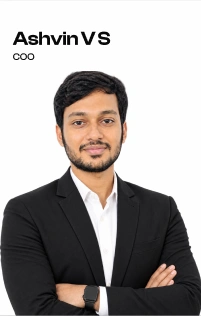
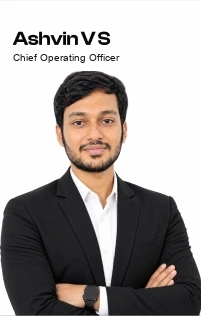
role change

Changed region(s): [[0.0597, 0.1709, 0.597, 0.1994]]

diff --git a/src/data/teamMembers.js b/src/data/teamMembers.js
@@ -35,7 +35,7 @@ export const TEAM_MEMBERS = [
     id: 3,
     slug: 'ashvin',
     name: 'Ashvin V S',
-    role: 'COO',
+    role: 'Chief Operating Officer',
     department: 'Operations & Execution',
     badgeId: 'GL/EE/26/03',
     bloodGroup: 'B+',
@@ -67,7 +67,7 @@ export const TEAM_MEMBERS = [
     id: 5,
     slug: 'reshma',
     name: 'Reshma J',
-    role: 'Software Developer',
+    role: 'Senior Developer',
     department: 'Software Engineering',
     badgeId: 'GL/EE/26/05',
     bloodGroup: 'O+',
@@ -99,7 +99,7 @@ export const TEAM_MEMBERS = [
     id: 7,
     slug: 'akshen',
     name: 'Akshen S',
-    role: 'AI/ML Trainee',
+    role: 'AI/ML Engineer',
     department: 'AI Forge & Research',
     badgeId: 'GL/EE/26/07',
     bloodGroup: 'AB+',
@@ -115,13 +115,13 @@ export const TEAM_MEMBERS = [
     id: 8,
     slug: 'ajinth',
     name: 'Ajinth M S',
-    role: 'Web Developer Trainee',
+    role: 'Web Developer',
     department: 'Frontend Engineering',
     badgeId: 'GL/EE/26/08',
     bloodGroup: 'O+',
     bio: 'Building cutting-edge web interfaces, fluid micro-interactions, and modern experiences.',
     image: '/assets/team/ajinth.webp',
-    cardImage: '/assets/team/cards/hires/ajinth.webp',
+    cardImage: '/assets/team/cards/hires/ajinth-v2.webp',
     finish: 'glossy',
     metal: 'silver',
     strapColor: '#0d1017',

diff --git a/src/utils/badgeCanvas.js b/src/utils/badgeCanvas.js
@@ -1,5 +1,5 @@
 // Generates high-resolution ID card textures matching the authentic GenLab ID card
-const TEXTURE_VERSION = 18;
+const TEXTURE_VERSION = 21;
 const cache = new Map();
 
 const GENLAB_PINWHEEL_PATHS = [
